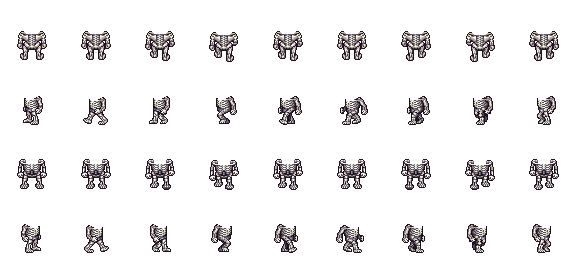
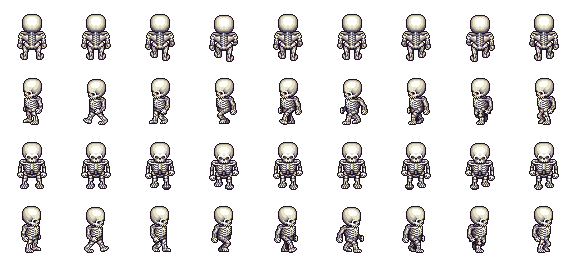
Replace placeholder enemy art with real LPC spritesheets (#63)
The previous "LPC import" shipped tiny 9–18 color placeholder PNGs I drew,
not real art — so the new models were basically indistinguishable from the
procedural blobs ("I don't see new enemies").

This downloads the genuine Liberated Pixel Cup base bodies (CC-BY-SA 3.0 /
GPL 3.0) from the Universal-LPC-spritesheet collection and crops their
walk-cycle rows into compact 576x256 sheets:

- skeleton_walk.png  = LPC skeleton body  -> skeleton, emberskeleton (orange recolor)
- zombie_walk.png    = LPC human body     -> zombie (sickly-green recolor at load)
- orc_walk.png       = LPC orc body       -> brute (updated existing model, visualScale 1.4)

Verified in Chromium: all four models load 8 walk frames per direction with
thousands of opaque pixels (no procedural fallback), game boots with 0 page
errors, and asset validation passes. Credits updated (assets.json,
ASSET_CREDITS.md, lpc/CREDITS.md) with the real source repo + LPC authors.

Claude-Session: https://claude.ai/code/session_01BpntGEq329zxqP1Uriw2Vk

diff --git a/src/assets/LpcSprites.js b/src/assets/LpcSprites.js
@@ -28,11 +28,16 @@ const ROW = { up: 0, left: 1, down: 2, right: 3 };
 // model id → { file, recolor? }. recolor (optional) is a {op,color,alpha}
 // tint applied per frame so one source sheet yields extra variants.
 const MODELS = {
+    // Real LPC skeleton body — bare bones, instantly readable.
     skeleton:     { file: 'skeleton_walk.png' },
-    zombie:       { file: 'zombie_walk.png' },
+    // Rotting walker: the LPC human body sheet multiplied toward sickly green
+    // so it reads as a decayed zombie rather than a living person.
+    zombie:       { file: 'zombie_walk.png', recolor: { op: 'multiply', color: '#86b85f', alpha: 0.82 } },
     // Ember-scorched skeleton: the bone sheet multiplied toward hot orange —
     // a distinct fire-themed model from the same source art.
     emberskeleton: { file: 'skeleton_walk.png', recolor: { op: 'multiply', color: '#ff7a3c', alpha: 0.85 } },
+    // Real LPC orc body — heavy green brute, used for the melee "brute" enemy.
+    orc:          { file: 'orc_walk.png' },
 };
 
 const cache = new Map();   // id → { up:[canvas], left, down, right }

diff --git a/src/entities/Enemy.js b/src/entities/Enemy.js
@@ -59,7 +59,7 @@ const CHASER_BRAIN_RANGE = 1500;
 const FRAMES_BY_TYPE = {
     slime:           { get: getSlimeFrames,           hz: 5 },
     bat:             { get: getBatFrames,             hz: 10 },
-    brute:           { get: getBruteFrames,           hz: 1.4 },
+    brute:           { get: () => getLpcFrames('orc'), hz: 7, directional: true },
     crawler:         { get: getCrawlerFrames,         hz: 9 },
     spitter:         { get: getSpitterFrames,         hz: 4 },
     charger:         { get: getChargerFrames,         hz: 3 },

diff --git a/src/config/GameConfig.js b/src/config/GameConfig.js
@@ -151,6 +151,7 @@ export const ENEMY = {
         radius: 70,
         contactDamage: 20,
         xpValue: 3,
+        visualScale: 1.4,  // real LPC orc body — scaled up to fill the big hitbox
     },
     crawler: {
         hp: 26,

diff --git a/src/assets/lpc/CREDITS.md b/src/assets/lpc/CREDITS.md
@@ -1,45 +1,55 @@
 # LPC Art Attribution
 
-The enemy spritesheets in this folder are from the **Universal LPC Spritesheet
-Generator** (Liberated Pixel Cup). They are **not** the game's own procedural
-art and carry their own licenses. They are redistributed here under those
-licenses, with attribution as required.
+The enemy spritesheets in this folder are **Liberated Pixel Cup (LPC)** base
+character bodies, taken from the **Universal LPC Spritesheet** collection. They
+are **not** the game's own procedural art and carry their own licenses. They are
+redistributed here under those licenses, with attribution as required.
 
-Each asset below is multi-licensed; you may use it under **any** of the listed
-licenses:
+Each asset below is multi-licensed; you may use it under **either** listed
+license:
 
-- **OGA-BY 3.0** — https://static.opengameart.org/OGA-BY-3.0.txt
 - **CC-BY-SA 3.0** — https://creativecommons.org/licenses/by-sa/3.0/
 - **GPL 3.0** — https://www.gnu.org/licenses/gpl-3.0.html
 
-Generator / collection: https://github.com/LiberatedPixelCup/Universal-LPC-Spritesheet-Character-Generator
+Direct source (the repository these were downloaded from):
+https://github.com/makrohn/Universal-LPC-spritesheet — an aggregation of the
+LPC humanoid entries from lpc.opengameart.org, dual-licensed CC-BY-SA 3.0 / GPL
+3.0 per the LPC rules.
+
+All three files were produced the same way: the full 832×1344 LPC "universal"
+body sheet was downloaded, and the four **walk-cycle rows** (up / left / down /
+right) were cropped out into a compact 576×256 (9×4 cells of 64px) sheet. No
+pixel art was hand-redrawn — only cropped, and (where noted) recolored at load.
 
 ---
 
 ## skeleton_walk.png  (models: `skeleton`, `emberskeleton`)
 
-LPC skeleton body — walk cycle.
+LPC **skeleton** body — walk cycle.
 
-- **Authors:** bluecarrot16; Johannes Sjölund (wulax); Stephen Challener (Redshrike)
-- **Licenses:** OGA-BY 3.0 / CC-BY-SA 3.0 / GPL 3.0
-- **Sources:**
-  - https://opengameart.org/content/liberated-pixel-cup-lpc-base-assets-sprites-map-tiles
-  - https://opengameart.org/content/lpc-medieval-fantasy-character-sprites
-  - https://opengameart.org/content/lpc-skeleton
-  - https://opengameart.org/content/lpc-character-bases
+- **Authors:** Stephen Challener (Redshrike); Johannes Sjölund (wulax); Liberated Pixel Cup contributors
+- **Licenses:** CC-BY-SA 3.0 / GPL 3.0
+- **Source file:** `body/male/skeleton.png` from the repo above
+- **Origin:** https://lpc.opengameart.org / https://opengameart.org/content/liberated-pixel-cup-lpc-base-assets-sprites-map-tiles
 
 The `emberskeleton` model is this same sheet recolored (orange multiply tint)
 at runtime; the underlying art and attribution are identical.
 
 ## zombie_walk.png  (model: `zombie`)
 
-LPC zombie body — walk cycle.
+LPC **human** body — walk cycle, recolored sickly green at load so it reads as a
+rotting zombie.
 
-- **Authors:** Stephen Challener (Redshrike); Johannes Sjölund (wulax);
-  Sander Frenken (castelonia); Benjamin K. Smith (BenCreating); bluecarrot16
-- **Licenses:** OGA-BY 3.0 / CC-BY-SA 3.0 / GPL 3.0
-- **Sources:**
-  - https://opengameart.org/content/liberated-pixel-cup-lpc-base-assets-sprites-map-tiles
-  - https://opengameart.org/content/lpc-medieval-fantasy-character-sprites
-  - https://opengameart.org/content/lpc-zombie
-  - https://opengameart.org/content/lpc-character-bases
+- **Authors:** Stephen Challener (Redshrike); Liberated Pixel Cup contributors
+- **Licenses:** CC-BY-SA 3.0 / GPL 3.0
+- **Source file:** `body/male/light.png` from the repo above
+- **Origin:** https://opengameart.org/content/liberated-pixel-cup-lpc-base-assets-sprites-map-tiles
+
+## orc_walk.png  (model: `orc`, used by the `brute` enemy)
+
+LPC **orc** body — walk cycle.
+
+- **Authors:** Stephen Challener (Redshrike); Liberated Pixel Cup contributors
+- **Licenses:** CC-BY-SA 3.0 / GPL 3.0
+- **Source file:** `body/male/orc.png` from the repo above
+- **Origin:** https://opengameart.org/content/liberated-pixel-cup-lpc-base-assets-sprites-map-tiles

diff --git a/ASSET_CREDITS.md b/ASSET_CREDITS.md
@@ -21,13 +21,17 @@ Piskel/Pixelorama-authored sprites, Lospec palettes, Tiled tilesets, Poly Haven
 ## External assets in the build
 
 ### LPC enemy spritesheets — `src/assets/lpc/`
-Used for the **skeleton**, **zombie**, and **ember-skeleton** (runtime recolor)
-enemy models. From the Universal LPC Spritesheet Generator.
+Real **Liberated Pixel Cup** base character bodies, used for the **skeleton**,
+**ember-skeleton** (runtime orange recolor), **zombie** (LPC human body recolored
+green), and **brute** (LPC orc) enemy models. Downloaded from the Universal LPC
+Spritesheet collection ([makrohn/Universal-LPC-spritesheet](https://github.com/makrohn/Universal-LPC-spritesheet)),
+then cropped to their walk-cycle rows.
 
-| File | Authors | License |
-|---|---|---|
-| `skeleton_walk.png` | bluecarrot16; Johannes Sjölund (wulax); Stephen Challener (Redshrike) | OGA-BY 3.0 / CC-BY-SA 3.0 / GPL 3.0 |
-| `zombie_walk.png` | Redshrike; wulax; castelonia; Benjamin K. Smith (BenCreating); bluecarrot16 | OGA-BY 3.0 / CC-BY-SA 3.0 / GPL 3.0 |
+| File | Source body | Authors | License |
+|---|---|---|---|
+| `skeleton_walk.png` | LPC skeleton | Stephen Challener (Redshrike); Johannes Sjölund (wulax); LPC contributors | CC-BY-SA 3.0 / GPL 3.0 |
+| `zombie_walk.png` | LPC human (recolored) | Stephen Challener (Redshrike); LPC contributors | CC-BY-SA 3.0 / GPL 3.0 |
+| `orc_walk.png` | LPC orc | Stephen Challener (Redshrike); LPC contributors | CC-BY-SA 3.0 / GPL 3.0 |
 
 Per-asset source URLs + notes: [`src/assets/lpc/CREDITS.md`](src/assets/lpc/CREDITS.md)
 and [`src/assets/credits/assets.json`](src/assets/credits/assets.json).